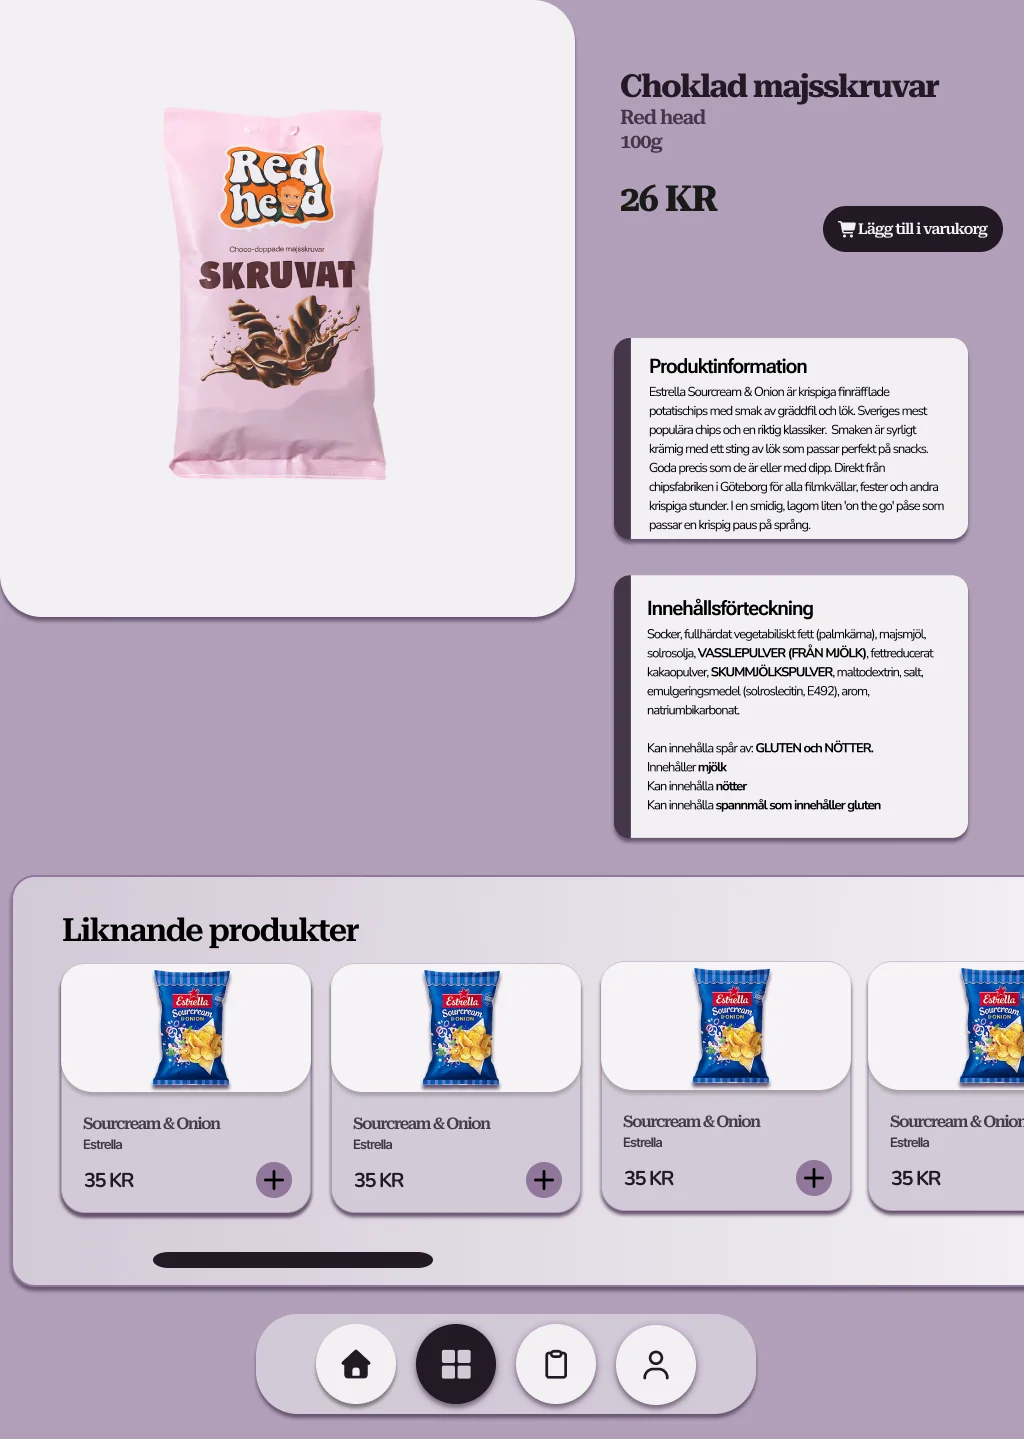
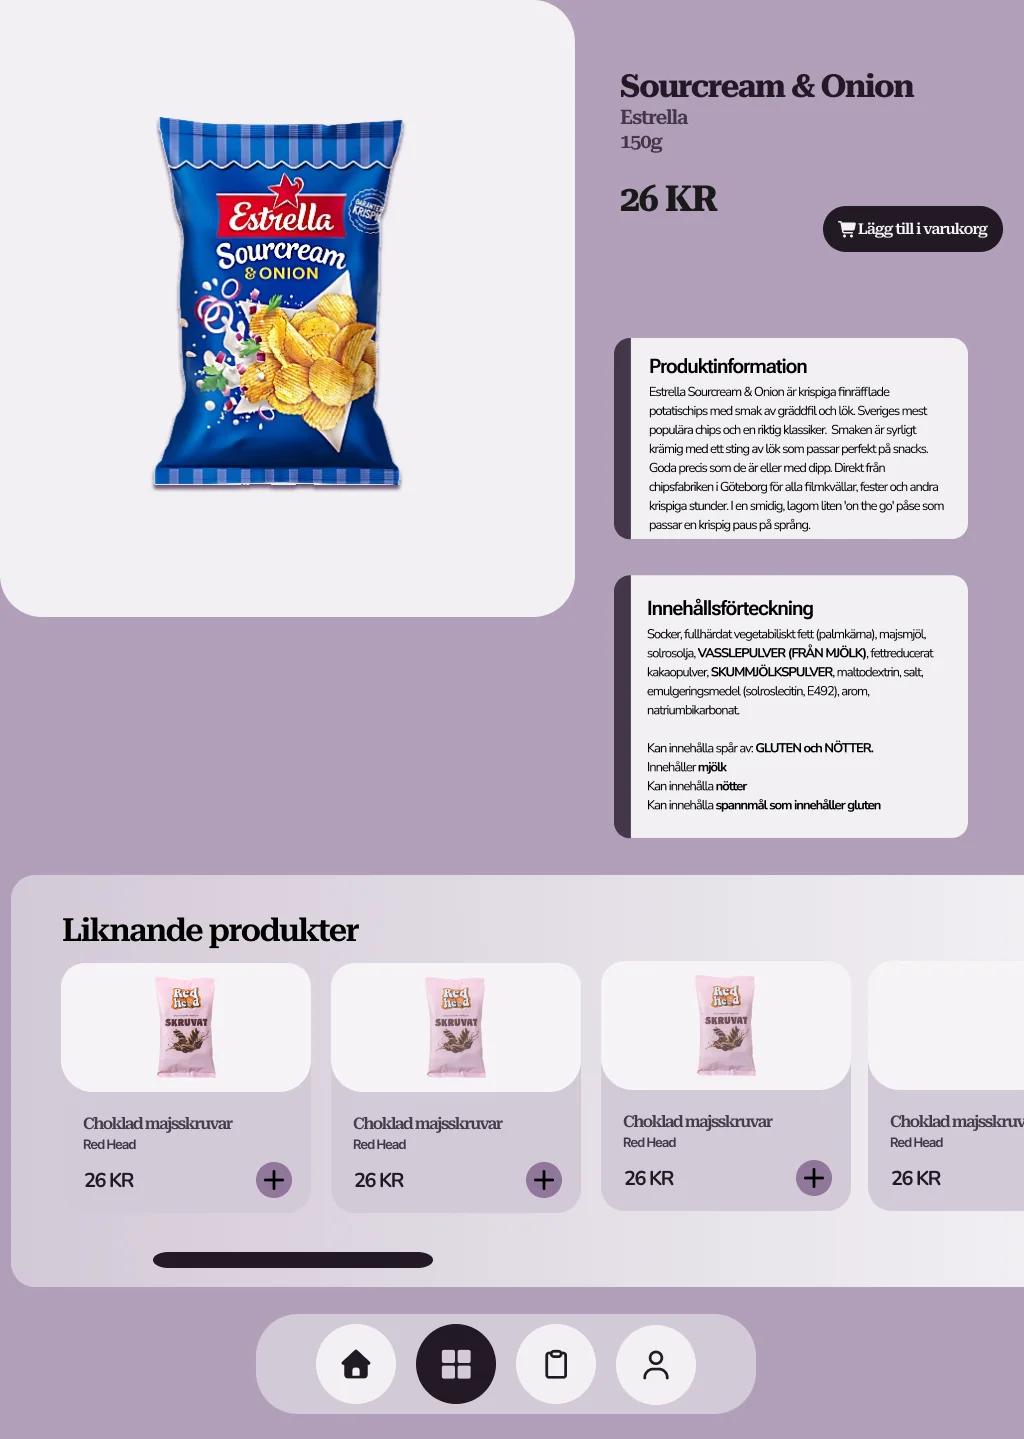
Hemly: updated product page (Estrella Sourcream & Onion)
Claude-Session: https://claude.ai/code/session_01GE6ZbDaAEppw2fTUExcSys

diff --git a/hemly.html b/hemly.html
@@ -1431,7 +1431,7 @@
         <div style="display: flex; flex-wrap: wrap; gap: 16px; align-items: center;">
           <span style="display: inline-flex; align-items: center; min-height: 44px; padding: 0 24px; border-radius: 50px; background: #382349; color: #FFF4E8; text-decoration: none; font-weight: 600;">Lägg i varukorg</span>
           <span style="display: inline-flex; align-items: center; min-height: 44px; padding: 0 24px; border-radius: 50px; border: 1.5px solid #382349; color: #382349; text-decoration: none; font-weight: 600;">Se alla</span>
-          <figure style="margin: 0 0 0 auto; flex: 1 1 280px; max-width: 520px;"><div style="border-radius: 28px; border: 8px solid #382349; overflow: hidden; background: #B19FB9;"><img src="assets/hemly/produktsida.webp" alt="Produktsidan för Choklad majsskruvar från Red head, 26 kr, med knappen Lägg till i varukorg, produktinformation, innehållsförteckning och liknande produkter" width="1024" height="1439" loading="lazy" style="display: block; width: 100%; height: auto;"></div><figcaption style="margin-top: 12px; font-size: 14px; text-align: center; color: #6B5578;">Produktsidan</figcaption></figure>
+          <figure style="margin: 0 0 0 auto; flex: 1 1 280px; max-width: 520px;"><div style="border-radius: 28px; border: 8px solid #382349; overflow: hidden; background: #B19FB9;"><img src="assets/hemly/produktsida.webp" alt="Produktsidan för Sourcream &amp; Onion från Estrella, 26 kr, med knappen Lägg till i varukorg, produktinformation, innehållsförteckning och liknande produkter" width="1024" height="1439" loading="lazy" style="display: block; width: 100%; height: auto;"></div><figcaption style="margin-top: 12px; font-size: 14px; text-align: center; color: #6B5578;">Produktsidan</figcaption></figure>
         </div>
       </div>
     </div>

diff --git a/assets/i18n.js b/assets/i18n.js
@@ -144,8 +144,8 @@
     'Lägg i varukorg': 'Add to cart',
     'Se alla': 'See all',
     'Produktsidan': 'Product page',
-    'Produktsidan för Choklad majsskruvar från Red head, 26 kr, med knappen Lägg till i varukorg, produktinformation, innehållsförteckning och liknande produkter':
-      'The product page for Red head chocolate corn twists, 26 kr, with the Add to cart button, product information, ingredients and similar products',
+    'Produktsidan för Sourcream & Onion från Estrella, 26 kr, med knappen Lägg till i varukorg, produktinformation, innehållsförteckning och liknande produkter':
+      'The product page for Estrella Sourcream & Onion, 26 kr, with the Add to cart button, product information, ingredients and similar products',
     '04 · Vyerna': '04 · The screens',
     'Från tomt skafferi till leverans': 'From empty pantry to delivery',
     '[Vad skärmen visar]': '[What the screen shows]',
